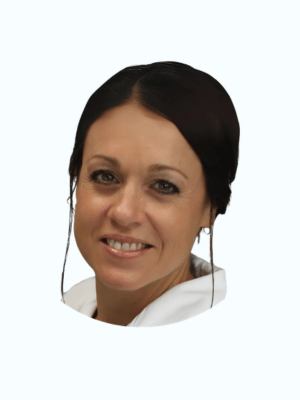
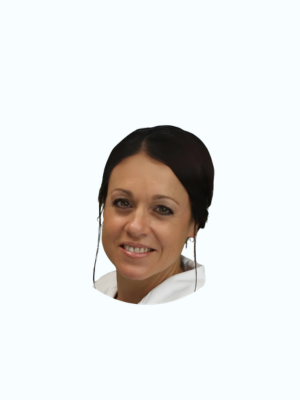
feat: implement contact form with Resend email integration and add programme overview component

Changed region(s): [[0.18, 0.15, 0.81, 0.84]]

diff --git a/components/contactForm.tsx b/components/contactForm.tsx
@@ -1,10 +1,11 @@
 'use client';
 
-import React, { useState } from 'react';
-import CTAButton from './CTAButton';
+import React, { useState, useTransition } from 'react';
+import { sendContactEmail } from '@/app/actions';
+import { CheckCircle2, AlertCircle, Loader2, Send } from 'lucide-react';
 
+// ─── FormField ────────────────────────────────────────────────────────────────
 
-// Reusable component for the custom input fields to keep the code DRY
 interface FormFieldProps {
   id: string;
   label: string;
@@ -12,98 +13,121 @@ interface FormFieldProps {
   isTextArea?: boolean;
   value: string;
   onChange: (e: React.ChangeEvent<HTMLInputElement | HTMLTextAreaElement>) => void;
+  required?: boolean;
+  disabled?: boolean;
 }
 
-const FormField = ({ id, label, type = 'text', isTextArea = false, value, onChange }: FormFieldProps) => {
-  return (
-    <div className="relative w-full mb-10 group">
-      {/* Custom Placeholder to allow the red asterisk */}
-      {!value && (
-        <div className="absolute left-0 top-3 pointer-events-none text-gray-400 text-sm flex gap-1">
-          {label} <span className="text-[#ff6b6b]">*</span>
-        </div>
-      )}
-      
-      {isTextArea ? (
-        <textarea
-          id={id}
-          value={value}
-          onChange={onChange}
-          rows={4}
-          className="w-full bg-transparent border-b border-gray-400 py-3 text-gray-700 focus:outline-none focus:border-gray-900 transition-colors resize-none"
-        />
-      ) : (
-        <input
-          id={id}
-          type={type}
-          value={value}
-          onChange={onChange}
-          className="w-full bg-transparent border-b border-gray-400 py-3 text-gray-700 focus:outline-none focus:border-gray-900 transition-colors"
-        />
-      )}
-    </div>
-  );
-};
+const FormField = ({ id, label, type = 'text', isTextArea = false, value, onChange, required, disabled }: FormFieldProps) => (
+  <div className="relative w-full mb-10 group">
+    {/* Floating placeholder */}
+    {!value && (
+      <div className="absolute left-0 top-3 pointer-events-none text-gray-400 text-sm flex gap-1">
+        {label}
+        {required && <span className="text-[#ff6b6b]">*</span>}
+      </div>
+    )}
+    {isTextArea ? (
+      <textarea
+        id={id}
+        name={id}
+        value={value}
+        onChange={onChange}
+        rows={4}
+        disabled={disabled}
+        className="w-full bg-transparent border-b border-gray-400 py-3 text-gray-700 focus:outline-none focus:border-[#03045E] transition-colors resize-none disabled:opacity-50"
+      />
+    ) : (
+      <input
+        id={id}
+        name={id}
+        type={type}
+        value={value}
+        onChange={onChange}
+        disabled={disabled}
+        className="w-full bg-transparent border-b border-gray-400 py-3 text-gray-700 focus:outline-none focus:border-[#03045E] transition-colors disabled:opacity-50"
+      />
+    )}
+    {/* Focus bar animation */}
+    <span className="absolute bottom-0 left-0 h-[2px] w-0 bg-[#03045E] transition-all duration-300 group-focus-within:w-full" />
+  </div>
+);
+
+// ─── ContactForm ──────────────────────────────────────────────────────────────
 
 export default function ContactForm() {
-  const [formData, setFormData] = useState({
-    name: '',
-    email: '',
-    mobile: '',
-    message: ''
-  });
+  const [formData, setFormData] = useState({ name: '', email: '', mobile: '', message: '' });
+  const [status, setStatus] = useState<'idle' | 'success' | 'error'>('idle');
+  const [errorMsg, setErrorMsg] = useState('');
+  const [isPending, startTransition] = useTransition();
 
   const handleChange = (e: React.ChangeEvent<HTMLInputElement | HTMLTextAreaElement>) => {
     const { id, value } = e.target;
     setFormData((prev) => ({ ...prev, [id]: value }));
+    if (status !== 'idle') setStatus('idle');
   };
 
   const handleSubmit = (e: React.FormEvent) => {
     e.preventDefault();
-    // Add your form submission logic  (e.g., EmailJS or custom API route)
-    console.log('Form submitted:', formData);
+
+    if (!formData.name.trim() || !formData.email.trim() || !formData.message.trim()) {
+      setStatus('error');
+      setErrorMsg('Please fill in all required fields.');
+      return;
+    }
+
+    startTransition(async () => {
+      const result = await sendContactEmail(formData);
+      if (result.success) {
+        setStatus('success');
+        setFormData({ name: '', email: '', mobile: '', message: '' });
+      } else {
+        setStatus('error');
+        setErrorMsg(result.error ?? 'Something went wrong. Please try again.');
+      }
+    });
   };
 
   return (
-    <form onSubmit={handleSubmit} className="w-full max-w-2xl mx-auto bg-transparent p-6">
-      <FormField 
-        id="name" 
-        label="Your Name " 
-        value={formData.name} 
-        onChange={handleChange} 
-      />
-      
-      <FormField 
-        id="email" 
-        type="email" 
-        label="Your E-mail " 
-        value={formData.email} 
-        onChange={handleChange} 
-      />
-      
-      <FormField 
-        id="mobile" 
-        type="tel" 
-        label="Your Mobile Number " 
-        value={formData.mobile} 
-        onChange={handleChange} 
-      />
-      
-      <FormField 
-        id="message" 
-        label="Your Message" 
-        isTextArea 
-        value={formData.message} 
-        onChange={handleChange} 
-      />
+    <form onSubmit={handleSubmit} className="w-full max-w-2xl mx-auto bg-transparent p-6" noValidate>
 
-      {/* Adding a sleek submit button to complete the form */}
-      <CTAButton 
-        type="button"
-        btnText="Send Message"
-        className="mt-4"
-        onClick={() => window.location.href = 'https://www.trybooking.com/DKWFJ'}
-      />
+      <FormField id="name"    label="Your Name"          value={formData.name}    onChange={handleChange} required disabled={isPending} />
+      <FormField id="email"   label="Your E-mail"  type="email" value={formData.email}   onChange={handleChange} required disabled={isPending} />
+      <FormField id="mobile"  label="Your Mobile Number" type="tel" value={formData.mobile}  onChange={handleChange} disabled={isPending} />
+      <FormField id="message" label="Your Message"  isTextArea   value={formData.message} onChange={handleChange} required disabled={isPending} />
+
+      {/* Status feedback */}
+      {status === 'success' && (
+        <div className="flex items-center gap-3 mb-6 text-sm text-emerald-700 bg-emerald-50 border border-emerald-200 rounded-xl px-4 py-3">
+          <CheckCircle2 size={18} className="flex-shrink-0" />
+          <span>Message sent! We&apos;ll be in touch soon.</span>
+        </div>
+      )}
+      {status === 'error' && (
+        <div className="flex items-center gap-3 mb-6 text-sm text-red-700 bg-red-50 border border-red-200 rounded-xl px-4 py-3">
+          <AlertCircle size={18} className="flex-shrink-0" />
+          <span>{errorMsg}</span>
+        </div>
+      )}
+
+      {/* Submit button */}
+      <button
+        type="submit"
+        disabled={isPending}
+        className="inline-flex items-center gap-2 px-8 py-3 rounded-full bg-[#03045E] text-white text-sm font-semibold hover:bg-[#020344] transition-colors disabled:opacity-60 disabled:cursor-not-allowed"
+      >
+        {isPending ? (
+          <>
+            <Loader2 size={16} className="animate-spin" />
+            Sending…
+          </>
+        ) : (
+          <>
+            <Send size={15} />
+            Send Message
+          </>
+        )}
+      </button>
+
     </form>
   );
 }

diff --git a/app/actions.ts b/app/actions.ts
@@ -1,0 +1,61 @@
+'use server';
+
+import { Resend } from 'resend';
+
+const resend = new Resend(process.env.RESEND_API_KEY);
+
+export async function sendContactEmail(data: {
+  name: string;
+  email: string;
+  mobile: string;
+  message: string;
+}) {
+  if (!data.name || !data.email || !data.message) {
+    return { error: 'Please fill in all required fields.' };
+  }
+
+  try {
+    await resend.emails.send({
+      from: 'OSC Contact Form <onboarding@resend.dev>',
+      to: 'infopraveenmaleesha@gmail.com',
+      subject: `New Enquiry from ${data.name}`,
+      replyTo: data.email,
+      html: `
+        <div style="font-family: sans-serif; max-width: 600px; margin: 0 auto; background: #f9fbff; border-radius: 12px; overflow: hidden; border: 1px solid #e0e8ff;">
+          <div style="background: #03045E; padding: 32px; text-align: center;">
+            <h1 style="color: white; margin: 0; font-size: 22px; font-weight: 600; letter-spacing: 0.05em;">New Contact Form Submission</h1>
+            <p style="color: rgba(255,255,255,0.7); margin: 8px 0 0; font-size: 14px;">Oral-Systemic Conference</p>
+          </div>
+          <div style="padding: 32px;">
+            <table style="width: 100%; border-collapse: collapse;">
+              <tr>
+                <td style="padding: 12px 0; border-bottom: 1px solid #e8eeff; font-size: 13px; color: #7888aa; font-weight: 600; text-transform: uppercase; letter-spacing: 0.08em; width: 130px;">Name</td>
+                <td style="padding: 12px 0; border-bottom: 1px solid #e8eeff; font-size: 15px; color: #03045E; font-weight: 500;">${data.name}</td>
+              </tr>
+              <tr>
+                <td style="padding: 12px 0; border-bottom: 1px solid #e8eeff; font-size: 13px; color: #7888aa; font-weight: 600; text-transform: uppercase; letter-spacing: 0.08em;">Email</td>
+                <td style="padding: 12px 0; border-bottom: 1px solid #e8eeff; font-size: 15px; color: #03045E;"><a href="mailto:${data.email}" style="color: #0077B6; text-decoration: none;">${data.email}</a></td>
+              </tr>
+              <tr>
+                <td style="padding: 12px 0; border-bottom: 1px solid #e8eeff; font-size: 13px; color: #7888aa; font-weight: 600; text-transform: uppercase; letter-spacing: 0.08em;">Mobile</td>
+                <td style="padding: 12px 0; border-bottom: 1px solid #e8eeff; font-size: 15px; color: #03045E;">${data.mobile || '—'}</td>
+              </tr>
+              <tr>
+                <td style="padding: 12px 0; font-size: 13px; color: #7888aa; font-weight: 600; text-transform: uppercase; letter-spacing: 0.08em; vertical-align: top; padding-top: 20px;">Message</td>
+                <td style="padding: 12px 0; font-size: 15px; color: #353535; line-height: 1.7; padding-top: 20px;">${data.message.replace(/\n/g, '<br/>')}</td>
+              </tr>
+            </table>
+          </div>
+          <div style="background: #f0f4ff; padding: 20px 32px; text-align: center; border-top: 1px solid #e0e8ff;">
+            <p style="color: #7888aa; font-size: 12px; margin: 0;">This email was sent from the contact form on the OSC website. Reply directly to respond to ${data.name}.</p>
+          </div>
+        </div>
+      `,
+    });
+
+    return { success: true };
+  } catch (error) {
+    console.error('Resend error:', error);
+    return { error: 'Failed to send message. Please try again later.' };
+  }
+}

diff --git a/components/programmeOverviewSec.tsx b/components/programmeOverviewSec.tsx
@@ -10,7 +10,7 @@ export default function ProgrammeOverviewSec() {
   // This keeps the JSX clean and makes it easy to update content later.
   const programData: ProgramOverviewProps[] = [
     {
-      dayLabel: "Day 01",
+      dayLabel: "Day 1",
       title: "Public Education Day",
       subtitle: "Oral Health, Pathology, and the Impact of Mercury",
       imageSrc: "https://images.unsplash.com/photo-1733119883210-04f09d5f86df?q=80&w=1170&auto=format&fit=crop&ixlib=rb-4.1.0&ixid=M3wxMjA3fDB8MHxwaG90by1wYWdlfHx8fGVufDB8fHx8fA%3D%3D", // Replace with your actual image
@@ -23,7 +23,7 @@ export default function ProgrammeOverviewSec() {
       ]
     },
     {
-      dayLabel: "Day 02",
+      dayLabel: "Day 2",
       title: "Practitioner Day",
       subtitle: "Oral-Systemic Infection Clinical Conference",
       imageSrc: "https://images.unsplash.com/photo-1598256989809-394fa4f6cd26?w=600&auto=format&fit=crop&q=60&ixlib=rb-4.1.0&ixid=M3wxMjA3fDB8MHxwaG90by1yZWxhdGVkfDM3fHx8ZW58MHx8fHx8", // Replace with your actual image
